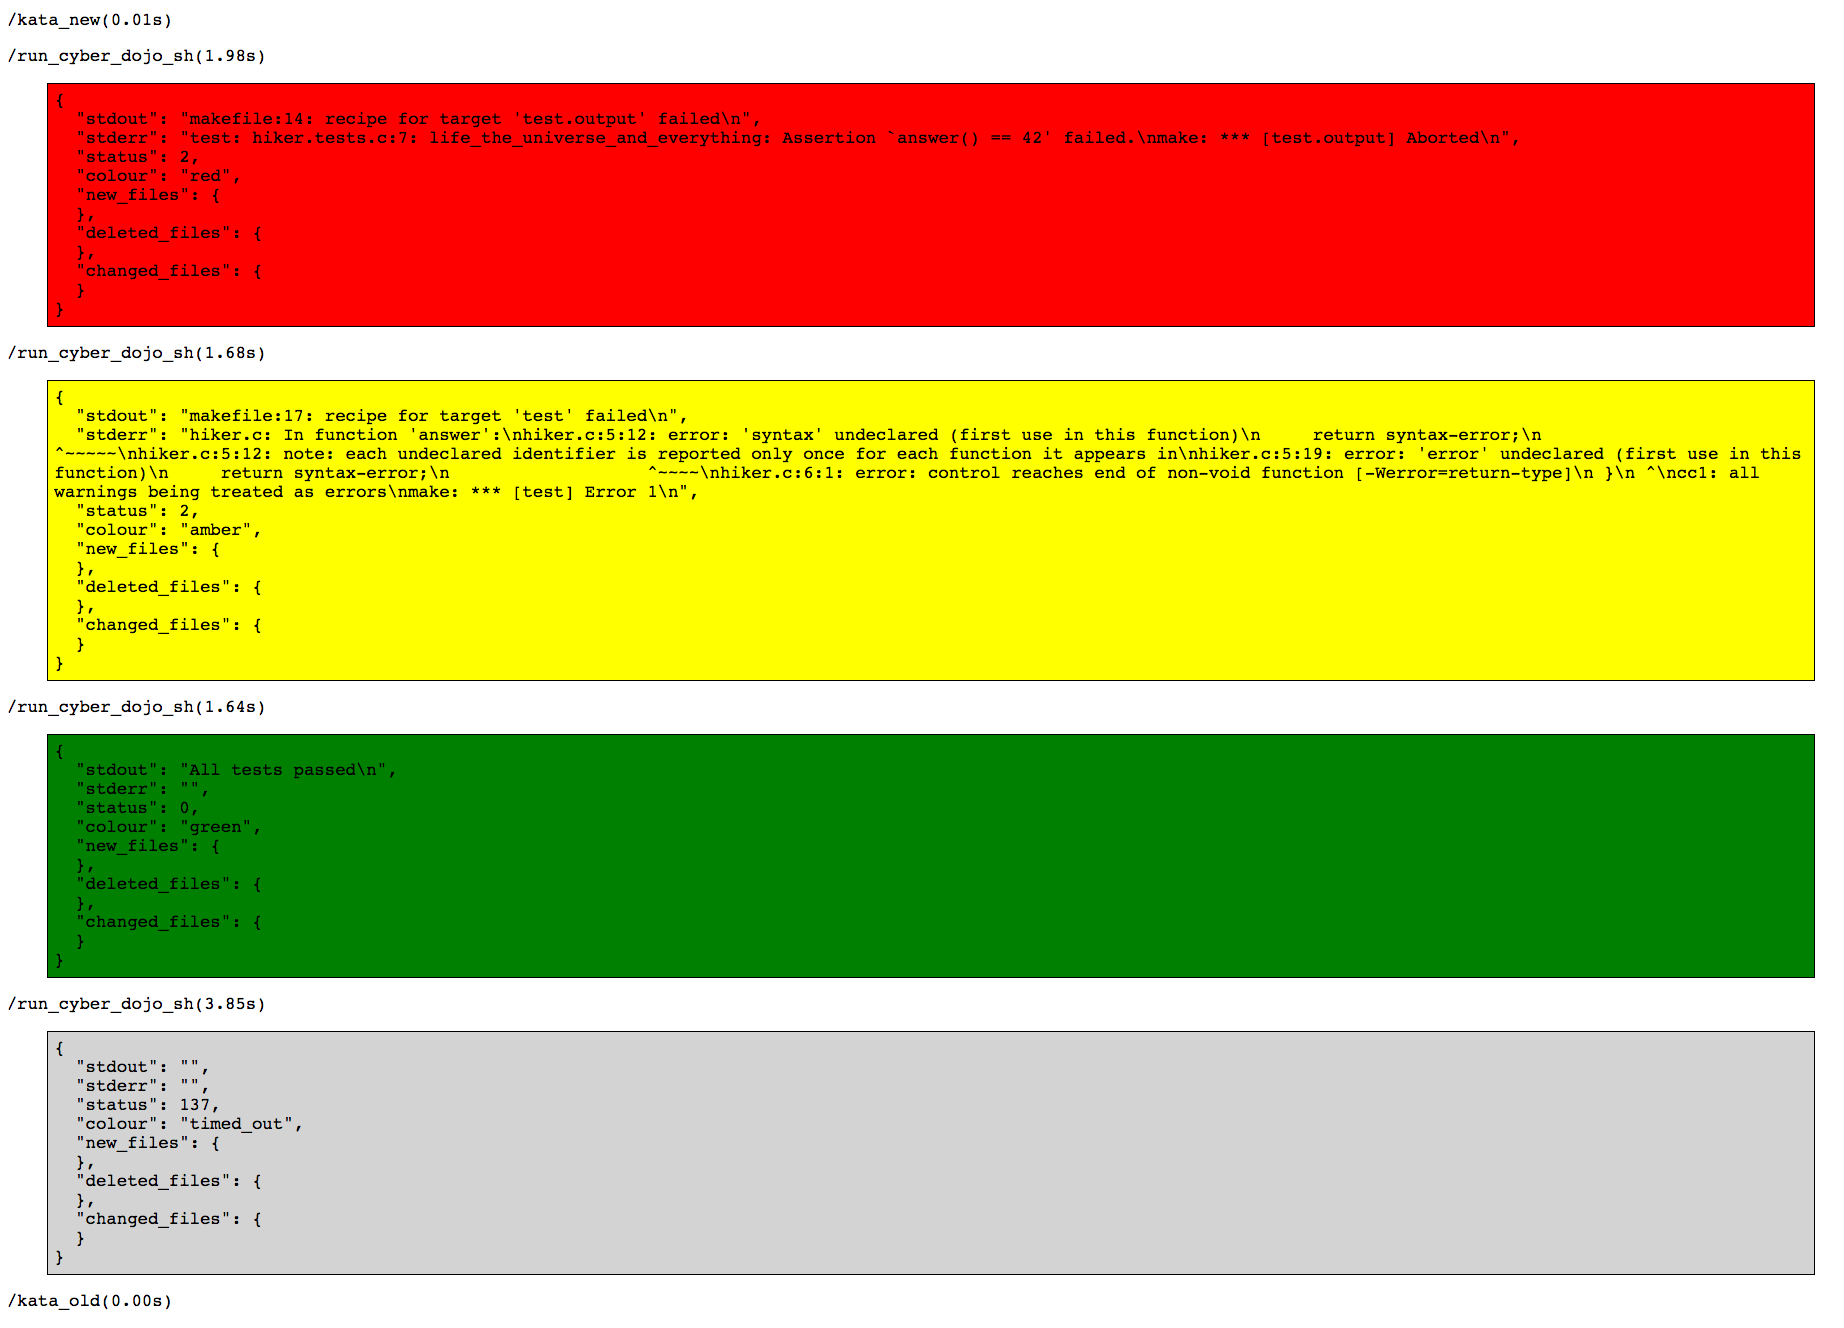
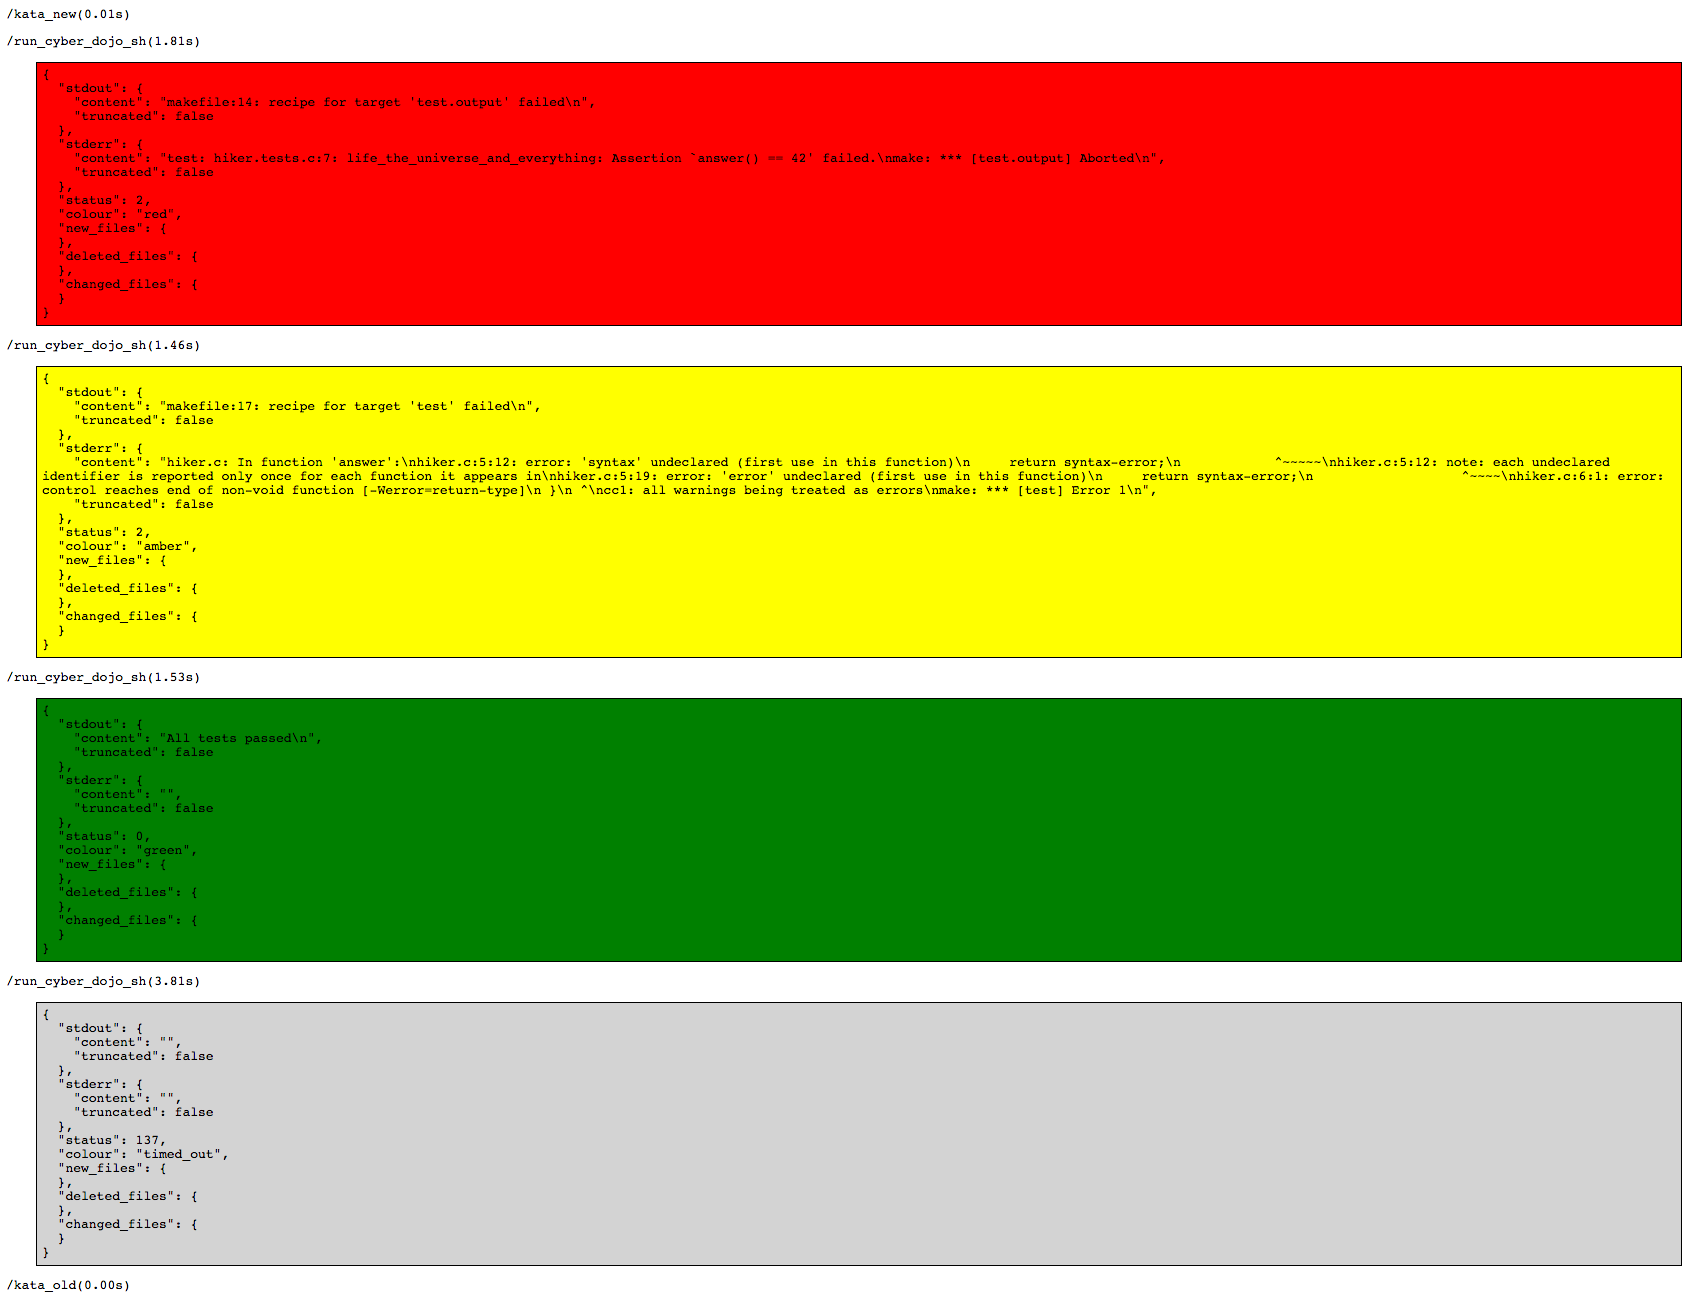
updated demo and demo-screenshot

Changed region(s): [[0.0, 0.0, 0.993, 1.0]]

diff --git a/client/src/demo.rb b/client/src/demo.rb
@@ -51,27 +51,27 @@ class Demo
   # - - - - - - - - - - - - - - - - - - - - -
 
   def red
-    change('hiker.c', hiker_c.sub('6 * 9', '6 * 9'))
+    change('hiker.c', hiker_c['content'].sub('6 * 9', '6 * 9'))
     run_cyber_dojo_sh('Red')
   end
 
   def amber
-    change('hiker.c', hiker_c.sub('6 * 9', 'syntax-error'))
+    change('hiker.c', hiker_c['content'].sub('6 * 9', 'syntax-error'))
     run_cyber_dojo_sh('Yellow')
   end
 
   def green
-    change('hiker.c', hiker_c.sub('6 * 9', '6 * 7'))
+    change('hiker.c', hiker_c['content'].sub('6 * 9', '6 * 7'))
     run_cyber_dojo_sh('Green')
   end
 
   def timed_out
-    change('hiker.c', hiker_c.sub('return', "for(;;);\n return"))
+    change('hiker.c', hiker_c['content'].sub('return', "for(;;);\n return"))
     run_cyber_dojo_sh('LightGray', 3)
   end
 
   def change(filename, content)
-    changed_files[filename] = content
+    changed_files[filename] = { 'content' => content }
     unchanged_files.delete(filename)
   end
 
@@ -109,12 +109,18 @@ class Demo
     }
   end
 
+  def file(content, truncated = false)
+    { 'content' => content,
+      'truncated' => truncated
+    }
+  end
+
   def hiker_c
     read('hiker.c')
   end
 
   def read(filename)
-    IO.read("/app/test/start_files/C_assert/#{filename}")
+    file(IO.read("/app/test/start_files/C_assert/#{filename}"))
   end
 
   def pre(name, duration, colour = 'white', result = nil)
